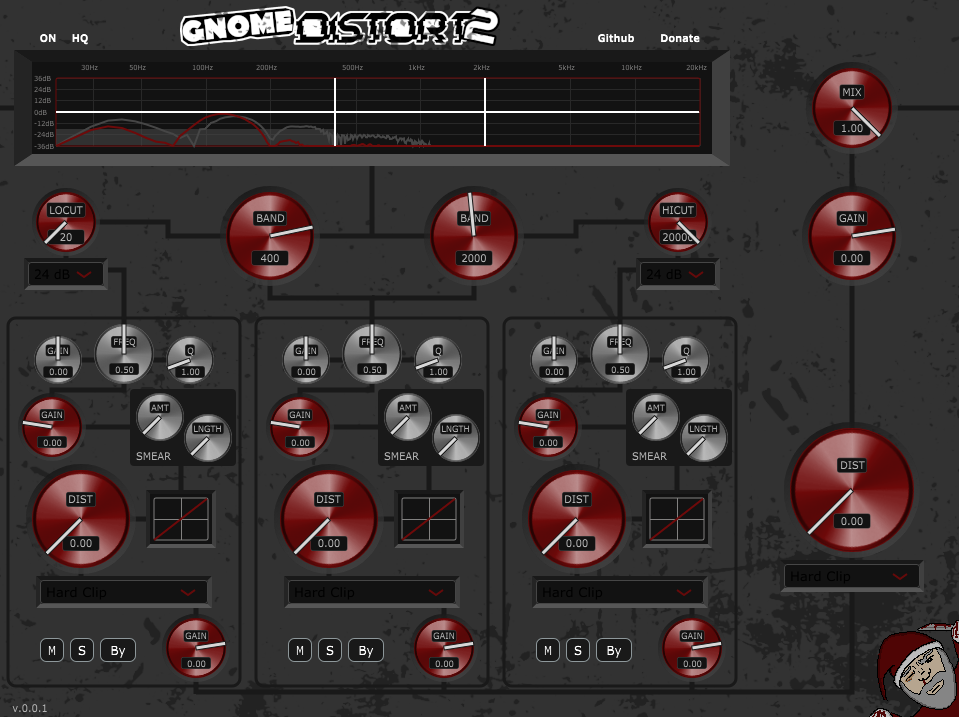
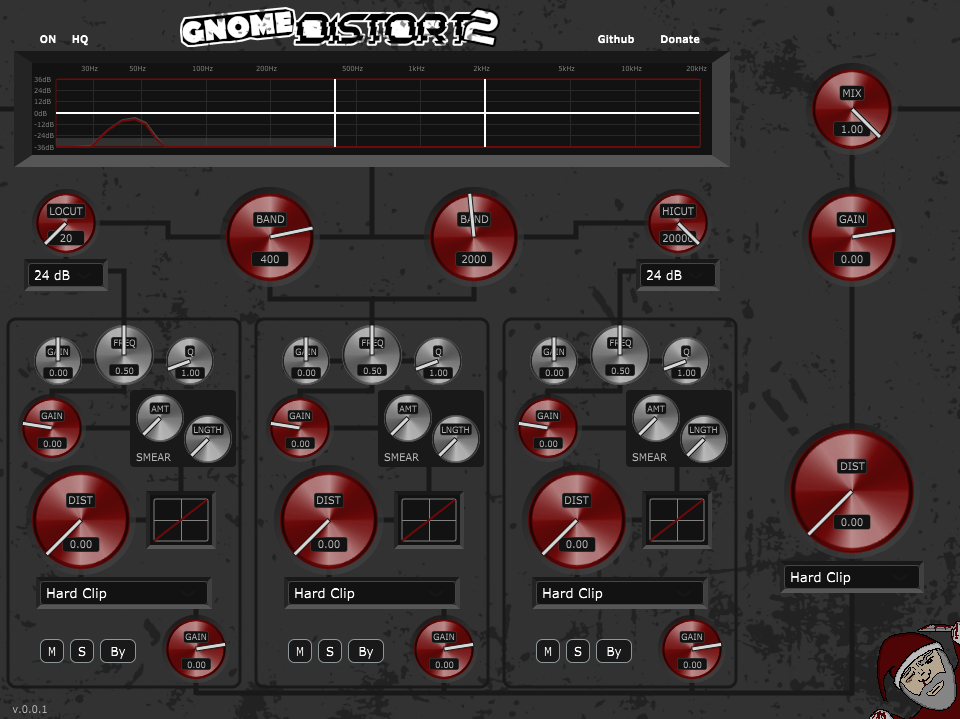
add combobox arrow color to themes

diff --git a/Source/UI/Controls/ComboBoxLnF.h b/Source/UI/Controls/ComboBoxLnF.h
@@ -11,7 +11,7 @@ namespace GnomeDistort2Controls {
             setColour(juce::ComboBox::ColourIds::backgroundColourId, theme->COLOR_GRAPH_BG);
             setColour(juce::ComboBox::ColourIds::textColourId, theme->COLOR_TEXT_PRIMARY);
             setColour(juce::ComboBox::ColourIds::outlineColourId, theme->COLOR_GRAPH_SECONDARY);
-            setColour(juce::ComboBox::ColourIds::arrowColourId, theme->COLOR_CIRCUIT_PRIMARY);
+            setColour(juce::ComboBox::ColourIds::arrowColourId, theme->COLOR_CMBBX_ARROW);
             setColour(juce::PopupMenu::ColourIds::backgroundColourId, theme->COLOR_BG_AREAS);
             setColour(juce::PopupMenu::ColourIds::textColourId, theme->COLOR_TEXT_PRIMARY);
             setColour(juce::PopupMenu::ColourIds::highlightedBackgroundColourId, theme->COLOR_GRAPH_BG);

diff --git a/Source/UI/Theme/Theme-CleanDarkGreen.h b/Source/UI/Theme/Theme-CleanDarkGreen.h
@@ -27,6 +27,7 @@ namespace GnomeDistort2Theme {
         r.COLOR_GRAPH_FOREGROUND = juce::Colour(255u, 255u, 255u);
         r.COLOR_GRAPH_MARKINGS = juce::Colour(130u, 129u, 128u);
         r.COLOR_GRAPH_MARKINGS_DIM = juce::Colour(40u, 40u, 40u);
+        r.COLOR_CMBBX_ARROW = juce::Colour(10u, 110u, 10u);
 
         r.KnobOverlay = juce::ImageCache::getFromMemory(BinaryData::knob_overlay_clean_128_png, BinaryData::knob_overlay_clean_128_pngSize);
         r.Gnome = juce::ImageCache::getFromMemory(BinaryData::gnome_dark_green_png, BinaryData::gnome_dark_green_pngSize);

diff --git a/Source/UI/Theme/Theme-CleanDarkBlue.h b/Source/UI/Theme/Theme-CleanDarkBlue.h
@@ -27,6 +27,7 @@ namespace GnomeDistort2Theme {
         r.COLOR_GRAPH_FOREGROUND = juce::Colour(255u, 255u, 255u);
         r.COLOR_GRAPH_MARKINGS = juce::Colour(130u, 129u, 128u);
         r.COLOR_GRAPH_MARKINGS_DIM = juce::Colour(40u, 40u, 40u);
+        r.COLOR_CMBBX_ARROW = juce::Colour(10u, 10u, 110u);
 
         r.KnobOverlay = juce::ImageCache::getFromMemory(BinaryData::knob_overlay_clean_128_png, BinaryData::knob_overlay_clean_128_pngSize);
         r.Gnome = juce::ImageCache::getFromMemory(BinaryData::gnome_dark_blue_png, BinaryData::gnome_dark_blue_pngSize);

diff --git a/Source/UI/Theme/Theme-CleanLightGreen.h b/Source/UI/Theme/Theme-CleanLightGreen.h
@@ -27,6 +27,7 @@ namespace GnomeDistort2Theme {
         r.COLOR_GRAPH_FOREGROUND = juce::Colour(255u, 255u, 255u);
         r.COLOR_GRAPH_MARKINGS = juce::Colour(0u, 0u, 0u);
         r.COLOR_GRAPH_MARKINGS_DIM = juce::Colour(130u, 130u, 130u);
+        r.COLOR_CMBBX_ARROW = juce::Colour(10u, 110u, 10u);
 
         r.KnobOverlay = juce::ImageCache::getFromMemory(BinaryData::knob_overlay_clean_128_png, BinaryData::knob_overlay_clean_128_pngSize);
         r.Gnome = juce::ImageCache::getFromMemory(BinaryData::gnome_dark_green_png, BinaryData::gnome_dark_green_pngSize);

diff --git a/Source/UI/Theme/Theme-CleanLightBlue.h b/Source/UI/Theme/Theme-CleanLightBlue.h
@@ -27,6 +27,7 @@ namespace GnomeDistort2Theme {
         r.COLOR_GRAPH_FOREGROUND = juce::Colour(255u, 255u, 255u);
         r.COLOR_GRAPH_MARKINGS = juce::Colour(0u, 0u, 0u);
         r.COLOR_GRAPH_MARKINGS_DIM = juce::Colour(130u, 130u, 130u);
+        r.COLOR_CMBBX_ARROW = juce::Colour(10u, 10u, 110u);
 
         r.KnobOverlay = juce::ImageCache::getFromMemory(BinaryData::knob_overlay_clean_128_png, BinaryData::knob_overlay_clean_128_pngSize);
         r.Gnome = juce::ImageCache::getFromMemory(BinaryData::gnome_dark_blue_png, BinaryData::gnome_dark_blue_pngSize);

diff --git a/Source/UI/Theme/Theme-Basalt.h b/Source/UI/Theme/Theme-Basalt.h
@@ -27,6 +27,7 @@ namespace GnomeDistort2Theme {
         r.COLOR_GRAPH_FOREGROUND = juce::Colour(255u, 255u, 255u);
         r.COLOR_GRAPH_MARKINGS = juce::Colour(130u, 129u, 128u);
         r.COLOR_GRAPH_MARKINGS_DIM = juce::Colour(40u, 40u, 40u);
+        r.COLOR_CMBBX_ARROW = juce::Colour(160u, 70u, 24u);
 
         r.KnobOverlay = juce::ImageCache::getFromMemory(BinaryData::knob_overlay_clean_128_png, BinaryData::knob_overlay_clean_128_pngSize);
         r.Gnome = juce::ImageCache::getFromMemory(BinaryData::gnome_dark_png, BinaryData::gnome_dark_pngSize);

diff --git a/Source/UI/Theme/Theme-CleanDarkRed.h b/Source/UI/Theme/Theme-CleanDarkRed.h
@@ -27,6 +27,7 @@ namespace GnomeDistort2Theme {
         r.COLOR_GRAPH_FOREGROUND = juce::Colour(255u, 255u, 255u);
         r.COLOR_GRAPH_MARKINGS = juce::Colour(130u, 129u, 128u);
         r.COLOR_GRAPH_MARKINGS_DIM = juce::Colour(40u, 40u, 40u);
+        r.COLOR_CMBBX_ARROW = juce::Colour(110u, 10u, 10u);
 
         r.KnobOverlay = juce::ImageCache::getFromMemory(BinaryData::knob_overlay_clean_128_png, BinaryData::knob_overlay_clean_128_pngSize);
         r.Gnome = juce::ImageCache::getFromMemory(BinaryData::gnome_dark_png, BinaryData::gnome_dark_pngSize);

diff --git a/Source/UI/Theme/Theme-CleanLightRed.h b/Source/UI/Theme/Theme-CleanLightRed.h
@@ -27,6 +27,7 @@ namespace GnomeDistort2Theme {
         r.COLOR_GRAPH_FOREGROUND = juce::Colour(255u, 255u, 255u);
         r.COLOR_GRAPH_MARKINGS = juce::Colour(0u, 0u, 0u);
         r.COLOR_GRAPH_MARKINGS_DIM = juce::Colour(130u, 130u, 130u);
+        r.COLOR_CMBBX_ARROW = juce::Colour(110u, 10u, 10u);
 
         r.KnobOverlay = juce::ImageCache::getFromMemory(BinaryData::knob_overlay_clean_128_png, BinaryData::knob_overlay_clean_128_pngSize);
         r.Gnome = juce::ImageCache::getFromMemory(BinaryData::gnome_dark_png, BinaryData::gnome_dark_pngSize);

diff --git a/Source/UI/Theme/Theme-GnomeDefault.h b/Source/UI/Theme/Theme-GnomeDefault.h
@@ -27,6 +27,7 @@ namespace GnomeDistort2Theme {
         r.COLOR_GRAPH_FOREGROUND = juce::Colour(255u, 255u, 255u);
         r.COLOR_GRAPH_MARKINGS = juce::Colour(130u, 129u, 128u);
         r.COLOR_GRAPH_MARKINGS_DIM = juce::Colour(40u, 40u, 40u);
+        r.COLOR_CMBBX_ARROW = juce::Colour(110u, 10u, 10u);
 
         r.KnobOverlay = juce::ImageCache::getFromMemory(BinaryData::knob_overlay_128_png, BinaryData::knob_overlay_128_pngSize);
         r.Gnome = juce::ImageCache::getFromMemory(BinaryData::gnome_dark_png, BinaryData::gnome_dark_pngSize);

diff --git a/Source/UI/Theme/Theme-Oscilloscope.h b/Source/UI/Theme/Theme-Oscilloscope.h
@@ -27,6 +27,7 @@ namespace GnomeDistort2Theme {
         r.COLOR_GRAPH_FOREGROUND = juce::Colour(250u, 249u, 248u);
         r.COLOR_GRAPH_MARKINGS = juce::Colour(165u, 84u, 84u);
         r.COLOR_GRAPH_MARKINGS_DIM = juce::Colour(45u, 16u, 5u);
+        r.COLOR_CMBBX_ARROW = juce::Colour(72u, 185u, 107u);
 
         r.KnobOverlay = juce::ImageCache::getFromMemory(BinaryData::knob_overlay_128_png, BinaryData::knob_overlay_128_pngSize);
         r.Gnome = juce::ImageCache::getFromMemory(BinaryData::gnome_dark_png, BinaryData::gnome_dark_pngSize);

diff --git a/Source/UI/Theme/Theme.h b/Source/UI/Theme/Theme.h
@@ -53,6 +53,7 @@ namespace GnomeDistort2Theme {
         juce::Colour COLOR_GRAPH_FOREGROUND;    // color for most important graphs: band borders, filter curve
         juce::Colour COLOR_GRAPH_MARKINGS;      // color of display markings, eg. labels
         juce::Colour COLOR_GRAPH_MARKINGS_DIM;  // color of less important display markings, eg. grid
+        juce::Colour COLOR_CMBBX_ARROW;
 
         juce::Image KnobOverlay;
         juce::Image Gnome;
